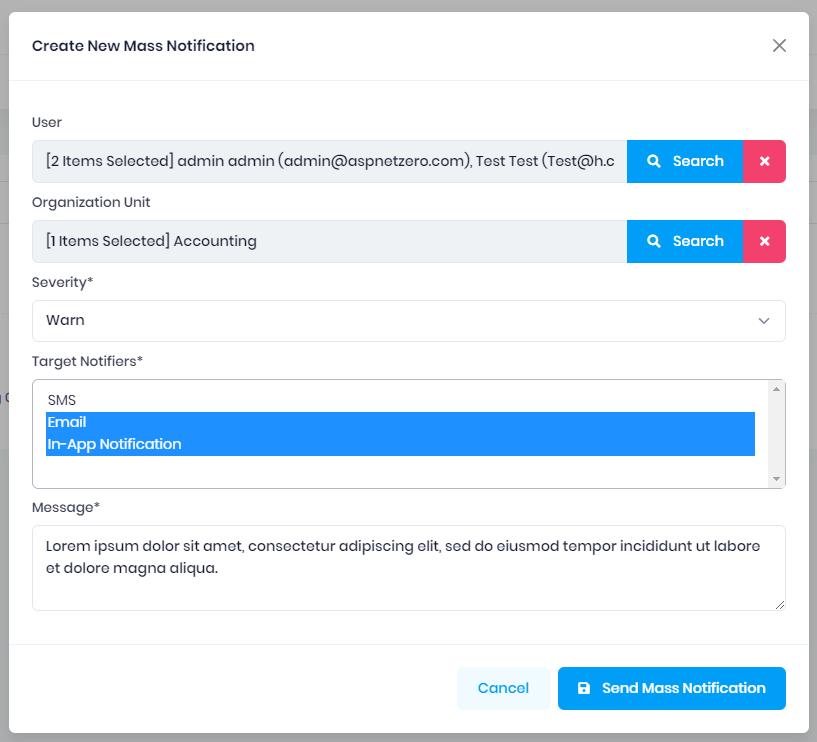
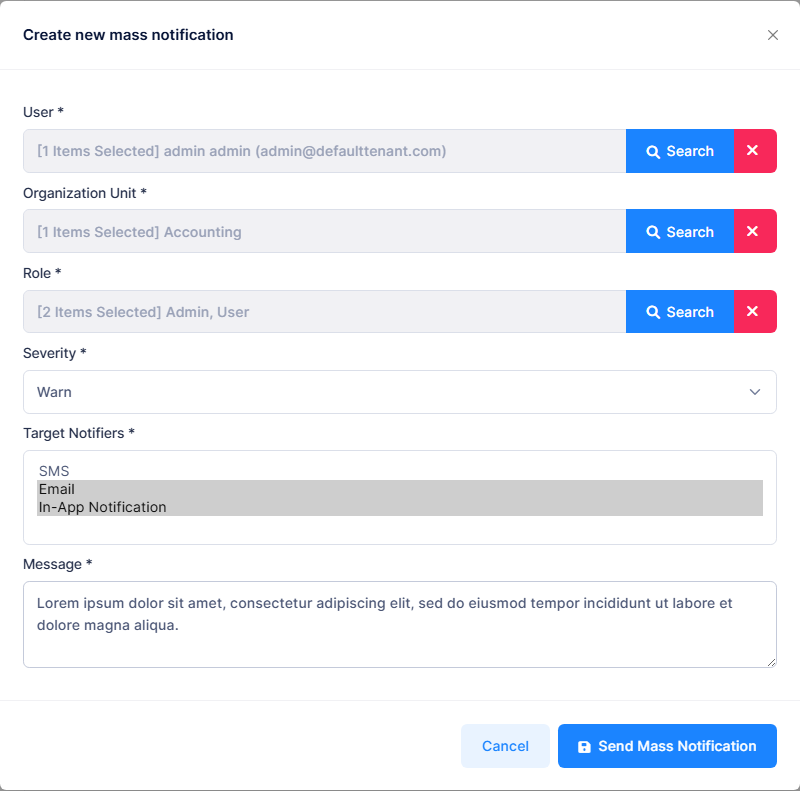
Document role selection for mass notifications

Changed region(s): [[0.0, 0.0, 1.0, 1.0]]

diff --git a/docs/en/Features-Mass-Notifications.md b/docs/en/Features-Mass-Notifications.md
@@ -7,7 +7,7 @@ In order to create a mass notification, go to `Administration -> Notifications -
 <img src="images/create-new-mass-notification.png" alt="notifications" class="img-thumbnail" />
 
 
-From the window that opens, you can choose who you want to send mass notification to. You can choose users and/or organization units. If you select organization unit, notification will be sent to all users connected to the organization unit you selected. Then you can set severity of the notification, target notifier and message. 
+From the window that opens, you can choose who you want to send mass notification to. You can choose any combination of users, organization units and roles. If you select organization unit, notification will be sent to all users connected to the organization unit you selected. If you select a role, notification will be sent to all users who have that role, whether it is assigned to them directly or through one of their organization units. A user who matches more than one selection receives the notification only once. Then you can set severity of the notification, target notifier and message. 
 You have 3 built-in target notifier. You can use them to notify user's in different ways.
 
 SMS: Sends sms to selected users (which has phone number defined)
